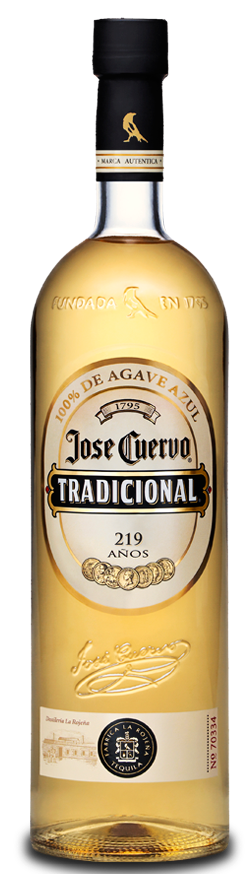
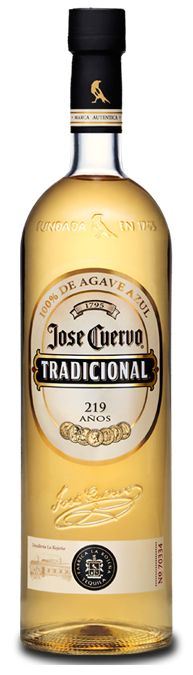
Cambios diseño
Diego

diff --git a/app/assets/stylesheets/index.css.scss b/app/assets/stylesheets/index.css.scss
@@ -47,16 +47,15 @@
 }
 
 .botella {
-	margin: 0;
+	margin: 160px 0 0 0;
 	padding: 0;
 }
 
 .botella img{
-  height: 800px;
+  height: 675px;
 }
 
 .caja2x2	{
-	/*border: solid red 1px;*/
 	height: auto;
 	width: auto;
 }
@@ -75,7 +74,6 @@
 }
 
 .contenedor {
-	/*border: solid black 1px;*/
 	font-size: 0;
 	height: auto;
 	top: 10px;
@@ -144,6 +142,10 @@
 	margin: 2.5em auto auto 10%;
 }
 
+.logo_image {
+  margin-right: 39%;
+}
+
 .participacion-div {
 	font-size: 35px;
 	margin: auto;
@@ -210,7 +212,7 @@
 	border: solid #998452 4px;
 	display: none;
 	min-height: 390px;
-	margin: 110px -40px auto auto;
+	margin: 180px -40px auto auto;
 	width: 730px;
 }
 
@@ -403,9 +405,15 @@
 	  margin: 2.5em auto auto 10px;
   }
 
-  .logo_image{
-    width: 180px;
+  .logo_image {
     height: auto;
+    margin-right: 50%;
+    width: 180px;
+  }
+
+  .logo_tradi {
+    height: auto;
+    width: 180px;
   }
 
   .registro {
@@ -471,4 +479,7 @@
     min-width: 178px;
   }
 
+  .logo_image {
+    margin-right: 0;
+  }
 }
